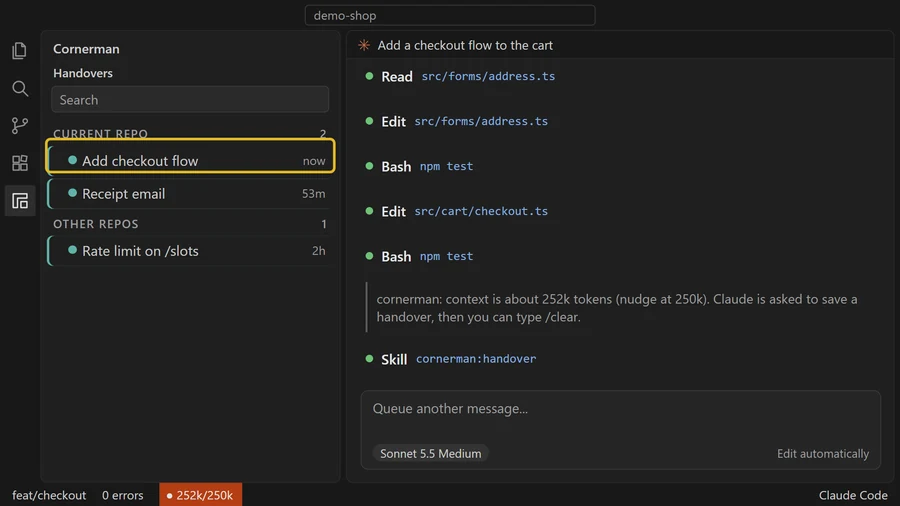
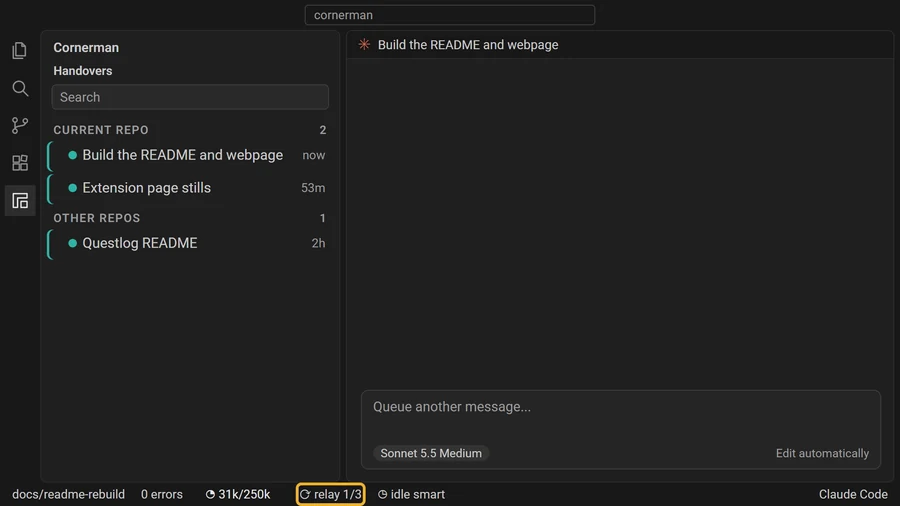
docs(readme): five relay-on steps with the real work as the demo

diff --git a/README.md b/README.md
@@ -6,7 +6,7 @@
 
 When a Claude Code chat gets long, Cornerman saves a handover, clears the chat and carries on by itself, up to the number of clears you set. Tables, lists, links and paths from the cleared chat stay one click away.
 
-<img src="docs/img/real-view.webp" alt="The whole run playing on a loop in VS Code: the chat fills, the nudge appears, the handover is saved, /clear runs, the fresh session resumes, and the loaded handover opens onto what was left on screen." width="900">
+<img src="docs/img/real-view.webp" alt="The whole run playing on a loop in VS Code: the chat fills, the handover is saved, Cornerman clears the chat, the fresh chat carries on, and the loaded handover opens onto what was left on screen." width="900">
 
 ## Install
 
@@ -33,29 +33,25 @@ It is also on [Open VSX](https://open-vsx.org/extension/macdara/cornerman) for V
 
 The context fills, Claude saves a handover, and the fresh session carries on from it.
 
-**1. Context fills**
+**1. The chat fills**
 
-<img src="docs/img/step-1.webp" alt="VS Code with a long Claude Code chat. Outlined in the status bar: the context pie at 231k of 250k, on amber." width="900">
+<img src="docs/img/step-1.webp" alt="VS Code with a long Claude Code chat. Outlined in the status bar: the context pie at 231k of 250k, on amber. Beside it: relay 0/3 and idle smart." width="900">
 
-**2. Nudge (off by default)**
+**2. Claude saves a handover**
 
-<img src="docs/img/step-2.webp" alt="Past 250k, the pie is red. Outlined in the chat: cornerman: context is about 252k tokens (nudge at 250k). Claude is asked to save a handover, then you can type /clear." width="900">
+<img src="docs/img/step-2.webp" alt="Past 250k, the pie is red. Claude has run the cornerman:handover skill. Outlined in the sidebar: a new handover row, Build the README and webpage, saved now." width="900">
 
-**3. Handover**
+**3. Cornerman clears the chat**
 
-<img src="docs/img/step-3.webp" alt="Claude has run the cornerman:handover skill. Outlined in the sidebar: a new handover row, Add checkout flow, saved now." width="900">
+<img src="docs/img/step-3.webp" alt="The chat is empty and the pie is back to 31k. Outlined in the status bar: relay 1/3." width="900">
 
-**4. Clear**
+**4. The fresh chat carries on**
 
-<img src="docs/img/step-4.webp" alt="Outlined: the prompt box, with /clear typed into it." width="900">
+<img src="docs/img/step-4.webp" alt="Outlined: the message Continue from the cornerman handover that was just loaded, sent by Cornerman, and the reply Resuming handover Build the README and webpage. Claude is editing again." width="900">
 
-**5. Resume**
+**5. Open what was on screen**
 
-<img src="docs/img/step-5.webp" alt="The chat is empty and the pie is back to 31k. Outlined: the message go, and the reply Resuming handover Add checkout flow." width="900">
-
-**6. Left on screen**
-
-<img src="docs/img/step-6.webp" alt="The sidebar, outlined: the loaded handover is open, listing a table, a list, two links, a path and the last screen before the clear." width="900">
+<img src="docs/img/step-5.webp" alt="The sidebar, outlined: the loaded handover is open, listing a table, a list, two links, a path and the last screen before the clear." width="900">
 
 ## Get back what was on screen
 
@@ -83,13 +79,13 @@ The window's clears left. Click to change them.
 
 Opens a Claude Code tab with the handover typed into the prompt box.
 
-<img src="docs/img/resume.webp" alt="The Handovers view. The row Add checkout flow, outlined, shows its buttons on hover, and the play button shows the tooltip Resume." width="700">
+<img src="docs/img/resume.webp" alt="The Handovers view. The row Build the README and webpage, outlined, shows its buttons on hover, and the play button shows the tooltip Resume." width="700">
 
 ## Worktrees
 
 Lists the repo's git worktrees and opens each in its own window.
 
-<img src="docs/img/worktrees.webp" alt="The Worktrees view lists feat/checkout, fix/receipt-email and main. The first row, outlined, shows its buttons on hover, with the tooltip Open worktree window." width="700">
+<img src="docs/img/worktrees.webp" alt="The Worktrees view lists docs/readme-rebuild, feat/hide-research and main. The first row, outlined, shows its buttons on hover, with the tooltip Open worktree window." width="700">
 
 ---
 
@@ -113,8 +109,8 @@ Lists the repo's git worktrees and opens each in its own window.
 
 - `/cornerman:handover` saves a short note: the goal, the next action, where things stand, the decisions made and what already failed.
 - The fresh session loads the note after `/clear`.
-- **Nudge** (off by default): past a size you choose, Claude is asked to save a handover.
-- **Relay** (off by default): it saves, clears and carries on, up to the number of clears you allow.
+- **Nudge**: past a size you choose, Claude is asked to save a handover.
+- **Relay**: it saves, clears and carries on, up to the number of clears you allow.
 - Each handover belongs to the Claude Code window that wrote it.
 - Handovers are plain text in `~/.cornerman`. Open them, change them or paste them into another chat.
 
